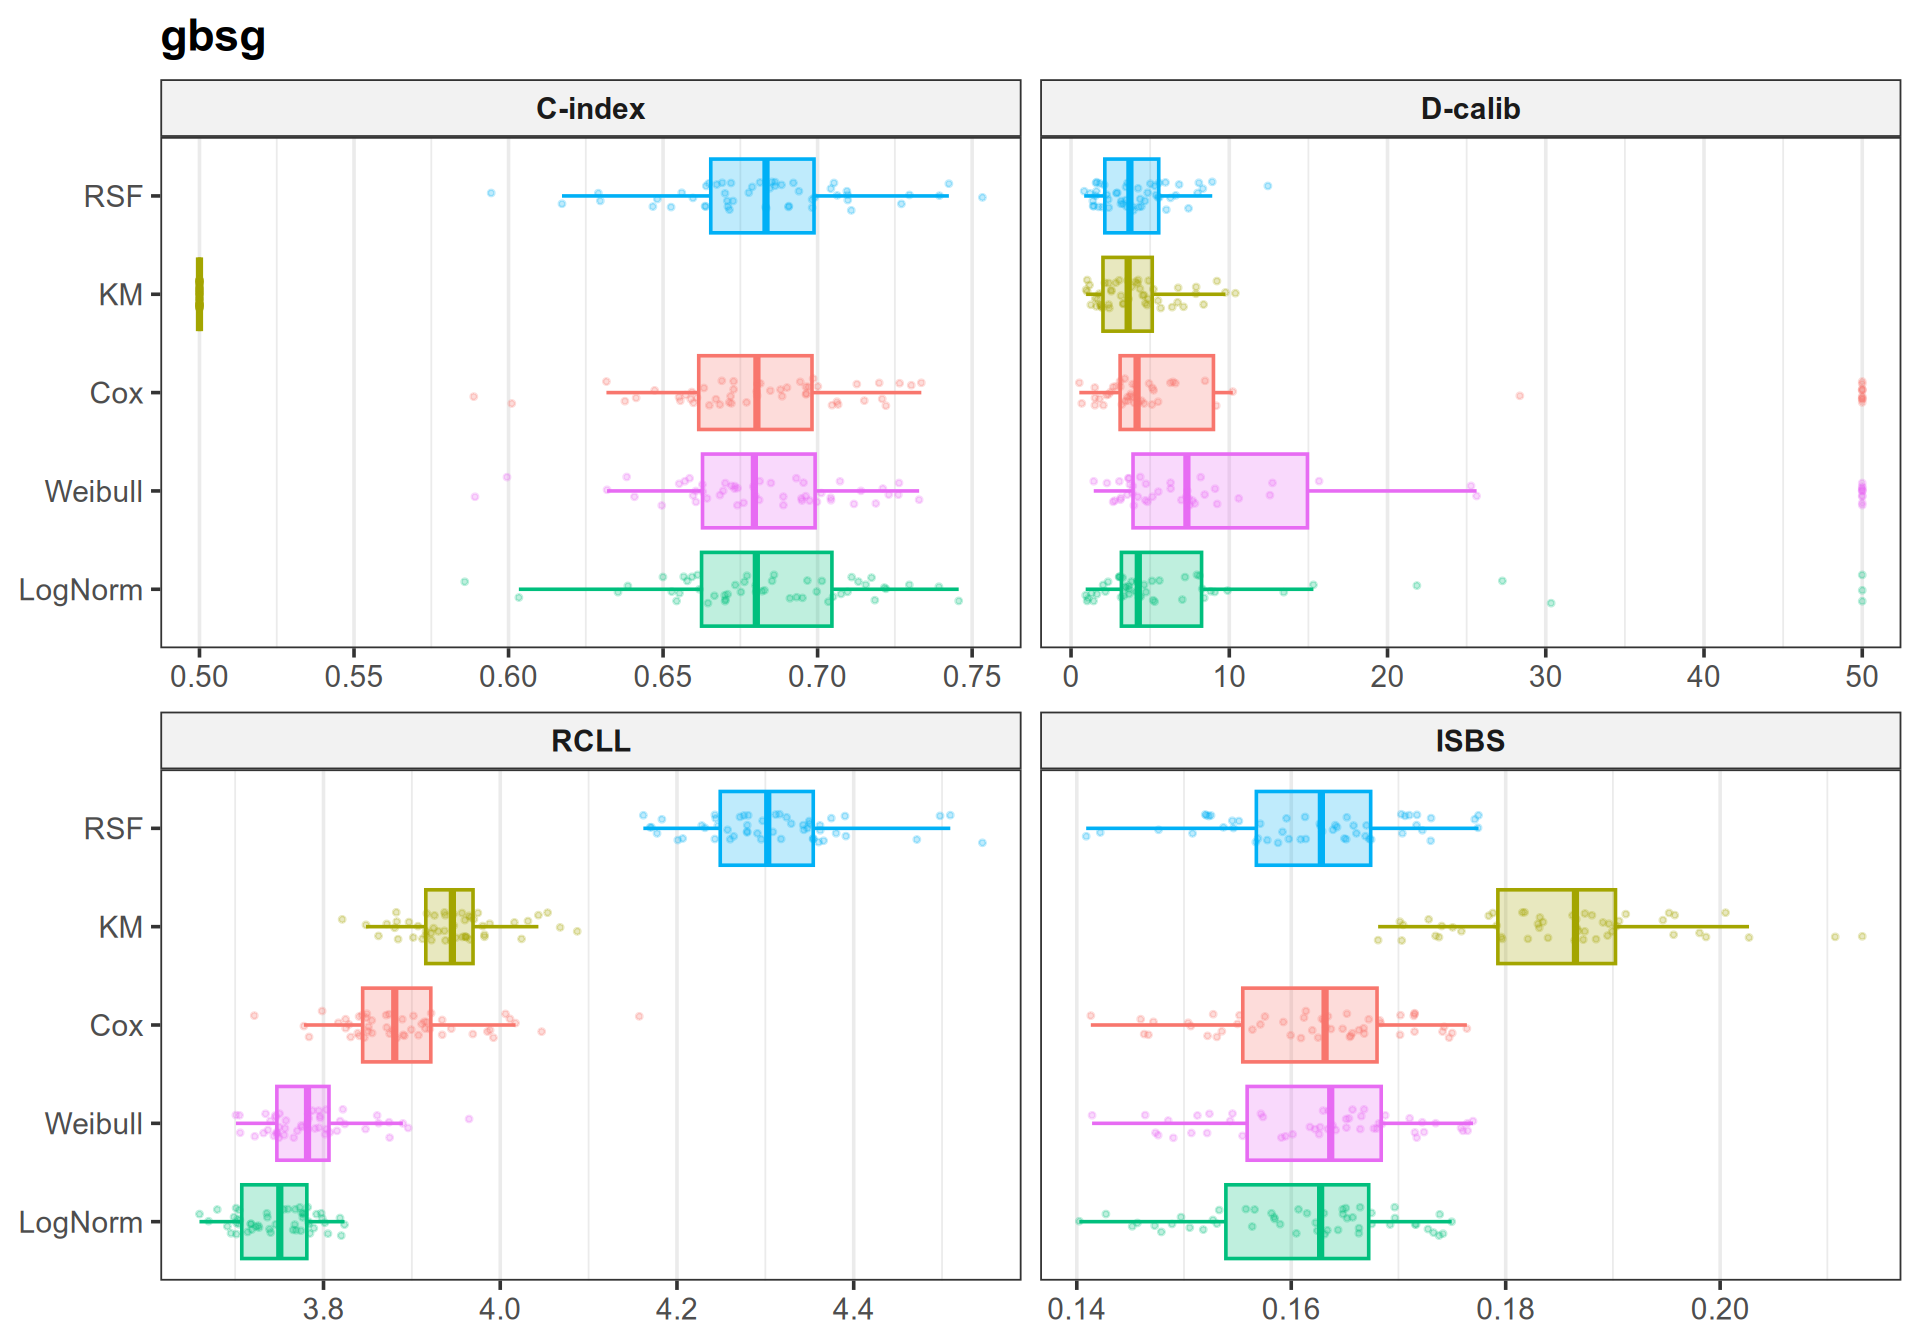
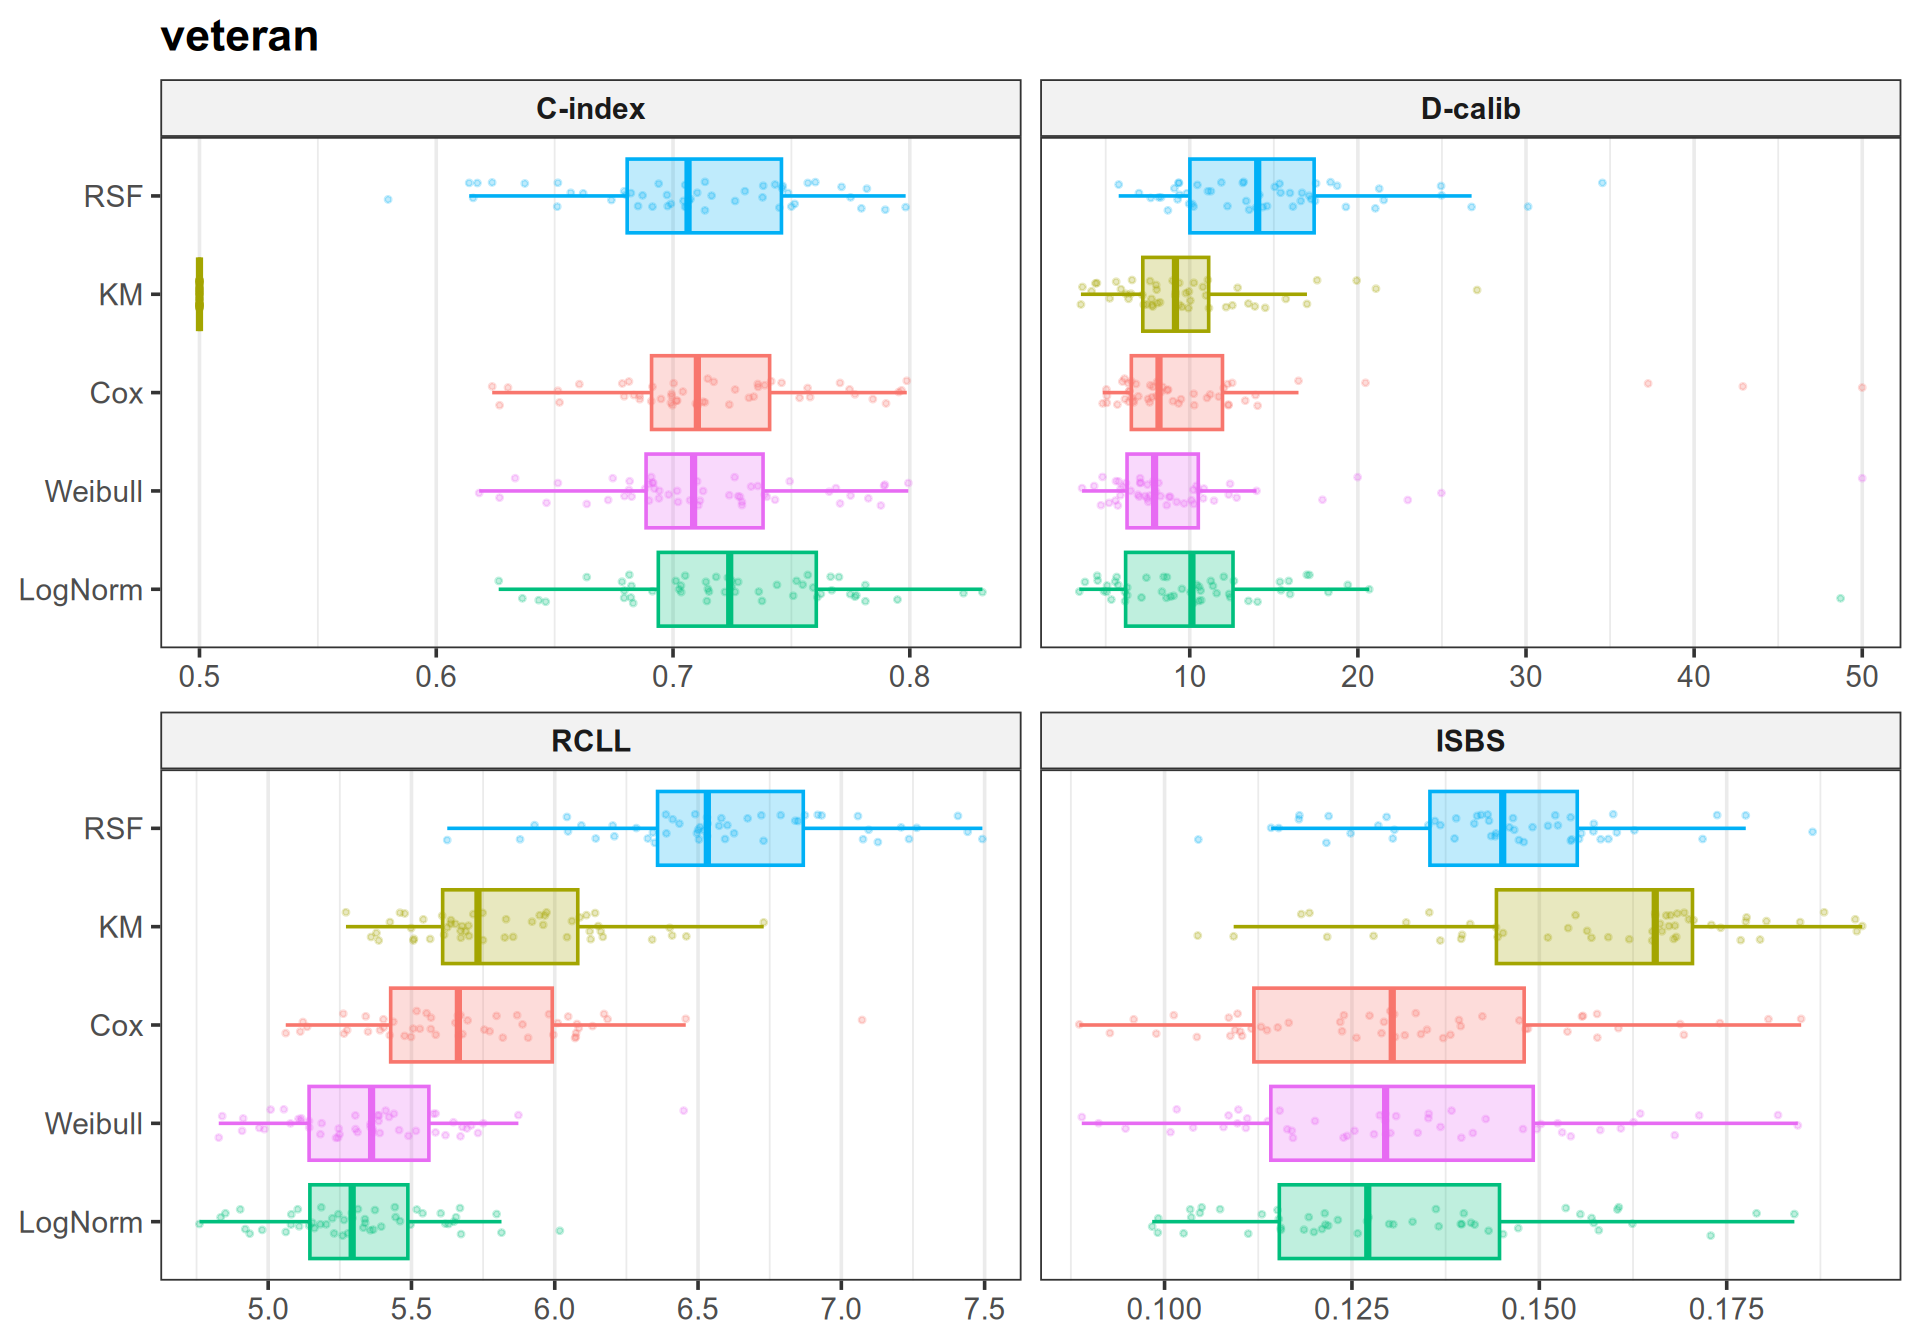
order datasets by increasing censoring rate to show that RCLL scale depends on censoring

diff --git a/docs/index.html b/docs/index.html
@@ -7,7 +7,7 @@
 <meta name="viewport" content="width=device-width, initial-scale=1.0, user-scalable=yes">
 
 <meta name="author" content="John Zobolas">
-<meta name="dcterms.date" content="2026-06-30">
+<meta name="dcterms.date" content="2026-07-01">
 <meta name="description" content="Supporting information for paper: ‘When Are Scoring Rules Proper? Bridging Theory and Practice in Survival Model Evaluation’">
 
 <title>Supplementary Material</title>
@@ -231,7 +231,7 @@ window.Quarto = {
     <div>
     <div class="quarto-title-meta-heading">Published</div>
     <div class="quarto-title-meta-contents">
-      <p class="date">June 30, 2026</p>
+      <p class="date">July 1, 2026</p>
     </div>
   </div>
   
@@ -1648,7 +1648,7 @@ Note
 </section>
 <section id="performance-per-dataset" class="level3">
 <h3 class="anchored" data-anchor-id="performance-per-dataset">Performance per-dataset</h3>
-<p>Predictive performance can vary considerably across datasets due to differences in sample size, censoring proportion, covariate distributions and the suitability of the underlying model assumptions. To provide a detailed overview, the following figures show the distribution of each evaluation metric across all repeated cross-validation resamples, separately for each dataset. D-calibration is truncated at 50 to avoid extreme outliers in the boxplots. Within each dataset, learners are ordered by their median RCLL to facilitate comparison across the different evaluation metrics.</p>
+<p>Predictive performance can vary considerably across datasets due to differences in sample size, censoring proportion, covariate distributions and the suitability of the underlying model assumptions. To provide a detailed overview, the following figures show the distribution of each evaluation metric across all repeated cross-validation resamples, separately for each dataset. D-calibration is truncated at 50 to avoid extreme outliers in the boxplots. RCLL* is excluded from the boxplots as it is an experimental measure in this analysis and has not been used in practice. <strong>Datasets are ordered by increasing censoring rate</strong>, and the title of each panel includes the dataset identifier, sample size, number of features, and whether the proportional hazards assumption is satisfied. Within each dataset, learners are ordered by their median RCLL to facilitate comparison across the different evaluation metrics.</p>
 <div class="cell">
 <details class="code-fold">
 <summary>Code</summary>
@@ -1698,12 +1698,13 @@ Note
 <span id="cb31-37"><a href="#cb31-37" aria-hidden="true" tabindex="-1"></a>  p</span>
 <span id="cb31-38"><a href="#cb31-38" aria-hidden="true" tabindex="-1"></a>}</span>
 <span id="cb31-39"><a href="#cb31-39" aria-hidden="true" tabindex="-1"></a></span>
-<span id="cb31-40"><a href="#cb31-40" aria-hidden="true" tabindex="-1"></a>task_ids <span class="ot">=</span> <span class="fu">unique</span>(task_info<span class="sc">$</span>id)</span>
-<span id="cb31-41"><a href="#cb31-41" aria-hidden="true" tabindex="-1"></a></span>
-<span id="cb31-42"><a href="#cb31-42" aria-hidden="true" tabindex="-1"></a><span class="fu">cat</span>(<span class="st">"::: {.panel-tabset}</span><span class="sc">\n\n</span><span class="st">"</span>)</span></code></pre></div><button title="Copy to Clipboard" class="code-copy-button"><i class="bi"></i></button></div>
+<span id="cb31-40"><a href="#cb31-40" aria-hidden="true" tabindex="-1"></a><span class="co"># order datasets by censoring rate</span></span>
+<span id="cb31-41"><a href="#cb31-41" aria-hidden="true" tabindex="-1"></a>task_ids <span class="ot">=</span> task_info[<span class="fu">order</span>(censoring_rate)]<span class="sc">$</span>id</span>
+<span id="cb31-42"><a href="#cb31-42" aria-hidden="true" tabindex="-1"></a></span>
+<span id="cb31-43"><a href="#cb31-43" aria-hidden="true" tabindex="-1"></a><span class="fu">cat</span>(<span class="st">"::: {.panel-tabset}</span><span class="sc">\n\n</span><span class="st">"</span>)</span></code></pre></div><button title="Copy to Clipboard" class="code-copy-button"><i class="bi"></i></button></div>
 </details>
 <div class="tabset-margin-container"></div><div class="panel-tabset">
-<ul class="nav nav-tabs" role="tablist"><li class="nav-item" role="presentation"><a class="nav-link active" id="tabset-4-1-tab" data-bs-toggle="tab" data-bs-target="#tabset-4-1" role="tab" aria-controls="tabset-4-1" aria-selected="true" href="">gbcs (n=686, p=8, PH violated)</a></li><li class="nav-item" role="presentation"><a class="nav-link" id="tabset-4-2-tab" data-bs-toggle="tab" data-bs-target="#tabset-4-2" role="tab" aria-controls="tabset-4-2" aria-selected="false" href="">gbsg (n=686, p=8, PH violated)</a></li><li class="nav-item" role="presentation"><a class="nav-link" id="tabset-4-3-tab" data-bs-toggle="tab" data-bs-target="#tabset-4-3" role="tab" aria-controls="tabset-4-3" aria-selected="false" href="">grace (n=1000, p=6, PH violated)</a></li><li class="nav-item" role="presentation"><a class="nav-link" id="tabset-4-4-tab" data-bs-toggle="tab" data-bs-target="#tabset-4-4" role="tab" aria-controls="tabset-4-4" aria-selected="false" href="">lung (n=168, p=7, PH)</a></li><li class="nav-item" role="presentation"><a class="nav-link" id="tabset-4-5-tab" data-bs-toggle="tab" data-bs-target="#tabset-4-5" role="tab" aria-controls="tabset-4-5" aria-selected="false" href="">mgus (n=176, p=7, PH)</a></li><li class="nav-item" role="presentation"><a class="nav-link" id="tabset-4-6-tab" data-bs-toggle="tab" data-bs-target="#tabset-4-6" role="tab" aria-controls="tabset-4-6" aria-selected="false" href="">rats (n=300, p=3, PH)</a></li><li class="nav-item" role="presentation"><a class="nav-link" id="tabset-4-7-tab" data-bs-toggle="tab" data-bs-target="#tabset-4-7" role="tab" aria-controls="tabset-4-7" aria-selected="false" href="">veteran (n=137, p=6, PH violated)</a></li><li class="nav-item" role="presentation"><a class="nav-link" id="tabset-4-8-tab" data-bs-toggle="tab" data-bs-target="#tabset-4-8" role="tab" aria-controls="tabset-4-8" aria-selected="false" href="">whas (n=481, p=9, PH violated)</a></li></ul>
+<ul class="nav nav-tabs" role="tablist"><li class="nav-item" role="presentation"><a class="nav-link active" id="tabset-4-1-tab" data-bs-toggle="tab" data-bs-target="#tabset-4-1" role="tab" aria-controls="tabset-4-1" aria-selected="true" href="">mgus (n=176, p=7, PH)</a></li><li class="nav-item" role="presentation"><a class="nav-link" id="tabset-4-2-tab" data-bs-toggle="tab" data-bs-target="#tabset-4-2" role="tab" aria-controls="tabset-4-2" aria-selected="false" href="">veteran (n=137, p=6, PH violated)</a></li><li class="nav-item" role="presentation"><a class="nav-link" id="tabset-4-3-tab" data-bs-toggle="tab" data-bs-target="#tabset-4-3" role="tab" aria-controls="tabset-4-3" aria-selected="false" href="">lung (n=168, p=7, PH)</a></li><li class="nav-item" role="presentation"><a class="nav-link" id="tabset-4-4-tab" data-bs-toggle="tab" data-bs-target="#tabset-4-4" role="tab" aria-controls="tabset-4-4" aria-selected="false" href="">whas (n=481, p=9, PH violated)</a></li><li class="nav-item" role="presentation"><a class="nav-link" id="tabset-4-5-tab" data-bs-toggle="tab" data-bs-target="#tabset-4-5" role="tab" aria-controls="tabset-4-5" aria-selected="false" href="">gbsg (n=686, p=8, PH violated)</a></li><li class="nav-item" role="presentation"><a class="nav-link" id="tabset-4-6-tab" data-bs-toggle="tab" data-bs-target="#tabset-4-6" role="tab" aria-controls="tabset-4-6" aria-selected="false" href="">grace (n=1000, p=6, PH violated)</a></li><li class="nav-item" role="presentation"><a class="nav-link" id="tabset-4-7-tab" data-bs-toggle="tab" data-bs-target="#tabset-4-7" role="tab" aria-controls="tabset-4-7" aria-selected="false" href="">gbcs (n=686, p=8, PH violated)</a></li><li class="nav-item" role="presentation"><a class="nav-link" id="tabset-4-8-tab" data-bs-toggle="tab" data-bs-target="#tabset-4-8" role="tab" aria-controls="tabset-4-8" aria-selected="false" href="">rats (n=300, p=3, PH)</a></li></ul>
 <div class="tab-content">
 <div id="tabset-4-1" class="tab-pane active" role="tabpanel" aria-labelledby="tabset-4-1-tab">
 <p><img src="index_files/figure-html/unnamed-chunk-31-1.png" class="img-fluid" width="960"></p>
@@ -1760,8 +1761,8 @@ Note
 </section>
 <section id="rank-correlation-between-evaluation-metrics" class="level3">
 <h3 class="anchored" data-anchor-id="rank-correlation-between-evaluation-metrics">Rank-correlation between evaluation metrics</h3>
-<p>Absolute performance values may not be directly comparable across datasets, so we evaluate how the different metrics rank competing models within each dataset. For every dataset and resampling iteration, model performances are converted into ranks (1 = best). Harrell’s C-index is converted to an error metric (1 - C-index) so that all metrics are oriented in the same direction (smaller values indicate better performance).</p>
-<p>We compute correlations between the resulting ranking vectors and visualize the empirical agreement between evaluation metrics as a correlation heatmap.</p>
+<p>Since the evaluation metrics operate on different numerical scales and some (such as RCLL) are affected by dataset characteristics like censoring, we compare learners using within-dataset rankings rather than absolute scores. For every dataset and resampling iteration, model performances are converted into ranks (1 = best). Harrell’s C-index is converted to an error metric (1 - C-index) so that all metrics are oriented in the same direction (smaller values indicate better performance).</p>
+<p>We compute Spearman rank correlations and visualize the empirical agreement between evaluation metrics as a correlation heatmap.</p>
 <div class="cell">
 <details class="code-fold">
 <summary>Code</summary>
@@ -1817,12 +1818,12 @@ Note
 <div class="callout-body-container callout-body">
 <p>The real-world benchmark confirms that <strong>the choice of evaluation metric can substantially influence the ranking of survival learners.</strong></p>
 <ul>
-<li><p><strong>RCLL provides the greatest discrimination between competing models.</strong> Across nearly all datasets, RCLL produces the clearest separation between learners, whereas Harrell’s C-index often assigns similar scores to models with noticeably different predictive distributions.</p></li>
-<li><p><strong>ISBS exhibits intermediate behaviour.</strong> It generally distinguishes competing models more clearly than the C-index, although less consistently than RCLL, and shows moderate agreement with both RCLL (<span class="math inline">\rho = 0.43</span>) and the C-index (<span class="math inline">\rho = 0.64</span>).</p></li>
+<li><p><strong>RCLL provides the greatest discrimination between competing models.</strong> Across nearly all datasets, RCLL produces the clearest separation between learners. With ISBS, models are bit less distinguishable, and the C-index often fails to differentiate between models with noticeably different predictive distributions. ISBS shows moderate agreement with both RCLL (<span class="math inline">\rho = 0.43</span>) and the C-index (<span class="math inline">\rho = 0.64</span>).</p></li>
+<li><p><strong>RCLL values depends strongly on the censoring rate</strong>. As censoring increases, absolute RCLL values become smaller (and vice versa), making comparisons across datasets less meaningful. This behaviour follows directly from the RCLL definition: <span class="math inline">L_{RCLL} = - (\delta \log f(t) + (1 - \delta) \log S(t))</span>. As the censoring rate increases, fewer observations contribute through the density term and more contribute through the survival term. Since the latter is typically associated with smaller loss values, the average RCLL decreases as censoring increases. Absolute RCLL scores are therefore most informative for comparing models within the same dataset (but ranks remain meaningful across datasets).</p></li>
 <li><p><strong>D-calibration captures complementary information.</strong> Its near-zero correlation with the remaining metrics indicates that calibration reflects a different aspect of predictive performance than discrimination or probabilistic accuracy.</p></li>
 <li><p><strong>Closely related scoring rules need not rank models similarly.</strong> Despite being a variant of RCLL, RCLL* exhibits only weak agreement with RCLL (<span class="math inline">\rho = 0.16</span>), highlighting that seemingly similar evaluation metrics can induce substantially different learner rankings in practice.</p></li>
 </ul>
-<p>Overall, these findings complement the simulation study by demonstrating that the empirical behaviour of survival evaluation metrics differs considerably on real datasets, emphasizing the importance of selecting evaluation metrics that align with the intended prediction objective.</p>
+<p>Overall, these findings complement the simulation study by demonstrating that the empirical behaviour of survival evaluation metrics varies considerably on real datasets. Even metrics that are theoretically related—or theoretically proper—may emphasize different aspects of predictive performance and therefore lead to different conclusions about which model performs best.</p>
 </div>
 </div>
 </section>
